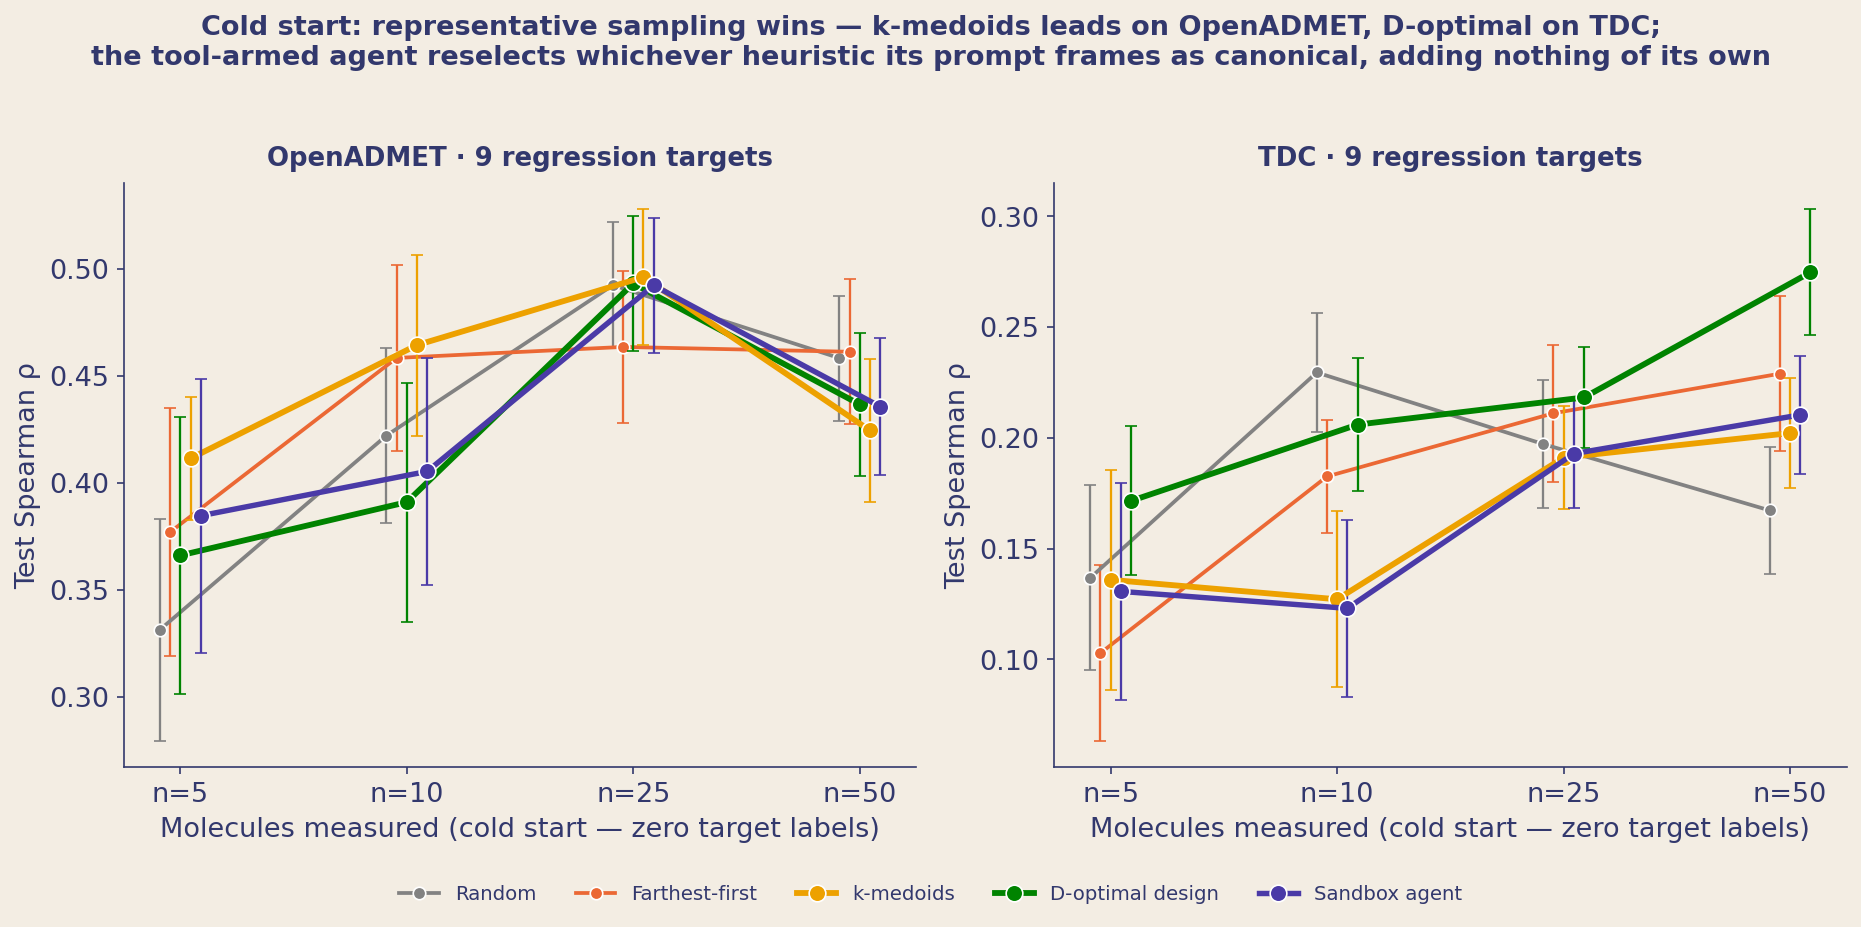
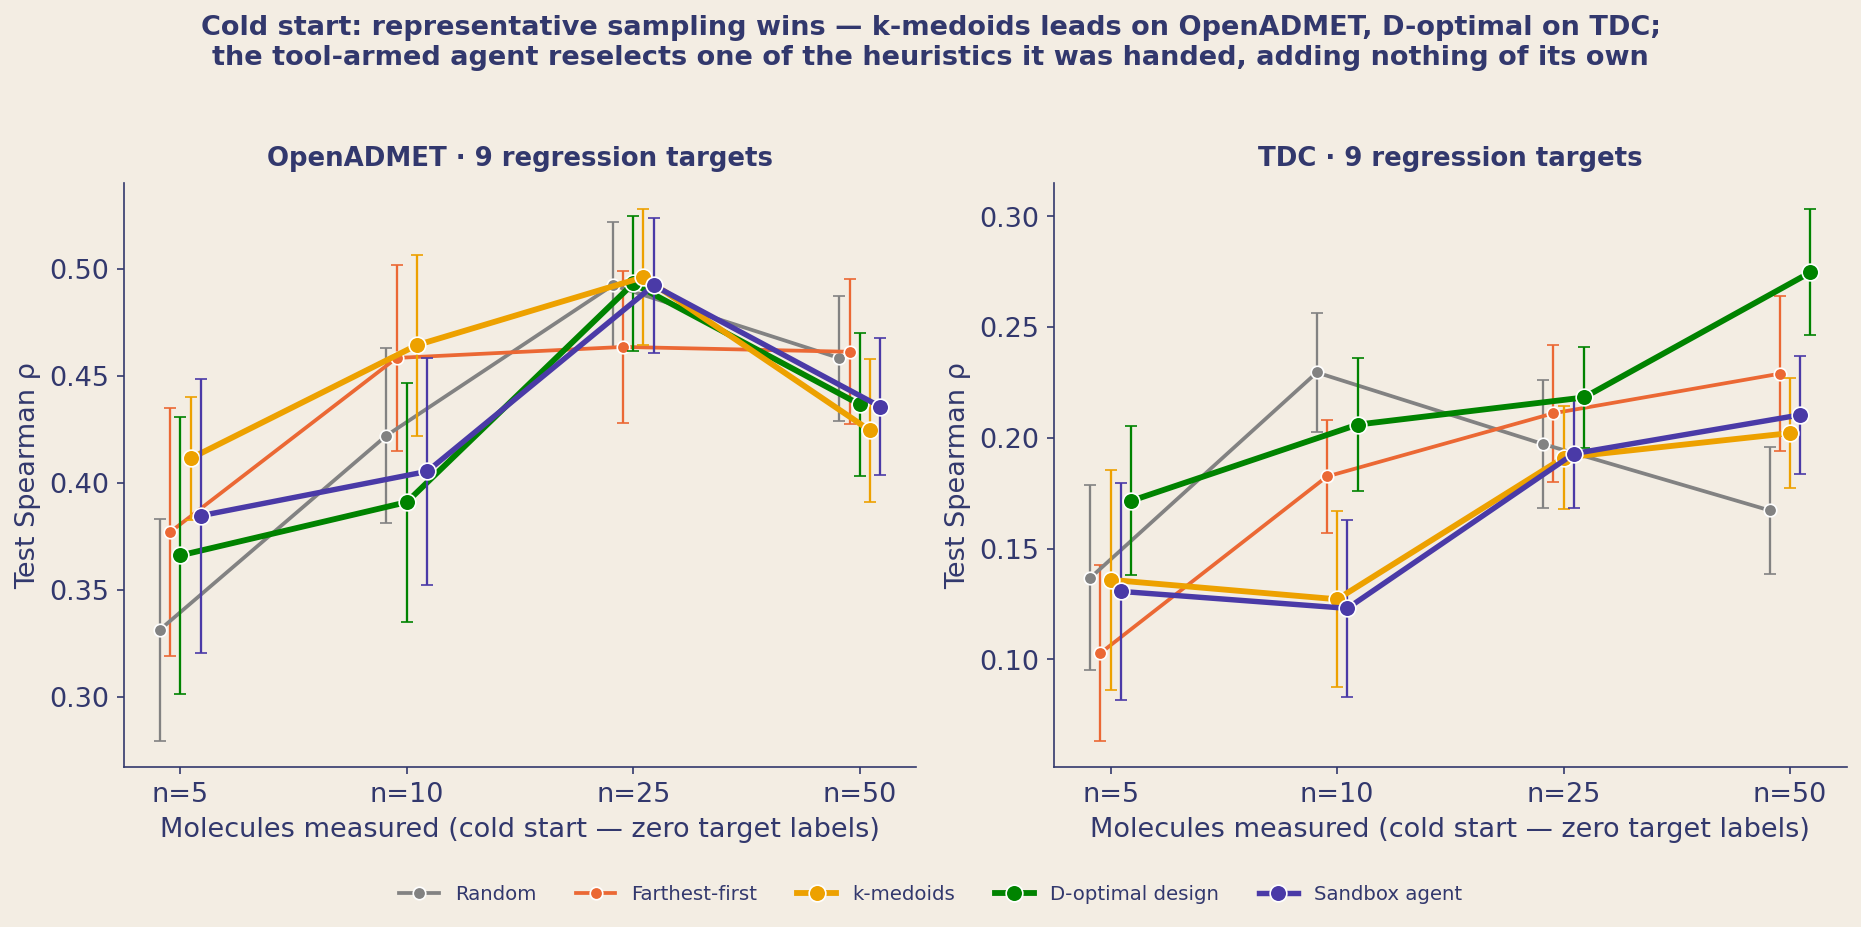
Blog: drop prompt framing from the cold-start figure; add GoatCounter include
The cold-start figure's title attributed the agent's tool choice to how each
prompt framed the options. Restate it as what both panels show directly -- the
agent reselects one of the heuristics it was handed -- until the TDC rerun on
the even-handed prompt lands and the two panels are a matched pair. Left a note
in the plotting script and the chart JS so whoever rebuilds it knows which row
still needs swapping.

Also tighten the acquisition paragraph, and add the GoatCounter analytics
include (inert until goatcounter_analytics is set in _config.yml).

Changed region(s): [[0.0312, 0.0302, 0.935, 0.0906]]

diff --git a/assets/js/expdisc-charts.js b/assets/js/expdisc-charts.js
@@ -1133,9 +1133,9 @@
       }
       // one style per method, shared by both panels, so a single legend reads across the figure.
       // k-medoids and D-optimal carry the story (representative sampling) and stay emphasised in
-      // both. The agent is one series name across both panels so the legend reads as one method;
-      // the two panels ran different prompts (OpenADMET even-handed, TDC k-medoids-anchored),
-      // which the post covers in a footnote rather than the legend.
+      // both. The agent is one series name across both panels so the legend reads as one method.
+      // NB not yet a matched pair: OpenADMET ran the even-handed prompt, TDC the k-medoids-anchored
+      // one. Swap TDC's row for the even-handed rerun once it lands so both panels share a prompt.
       var STYLE = {
         random: [c.inkSoft, { width: 1.8 }],
         "farthest-first": [c.cat[7], {}],

diff --git a/_posts/2026-06-24-where-llm-agents-help-drug-discovery.md b/_posts/2026-06-24-where-llm-agents-help-drug-discovery.md
@@ -273,7 +273,7 @@ D-optimal design<d-footnote>D-optimal design comes from optimal experimental des
 the current fit is least certain about, which is also the one
 that most increases the determinant of the information matrix.</d-footnote>. When
 handed a sandbox and a set of tools, the agent does not design an acquisition strategy of its own, instead it
-calls one of the tools and finalizes its picks. In both cases the agent lands wherever that tool (and its corresponding baseline) lands. When a simple algorithm already captures the signal the agent has nothing of its own to add, and on datasets this small a
+calls one of the tools and finalizes its picks. For both datasets, the agent lands wherever that tool (and its corresponding baseline) lands. When a simple algorithm already captures the signal the agent has nothing of its own to add, and on datasets this small a
 well-chosen algorithm matches or beats it.
 
 <div class="l-page" markdown="0">